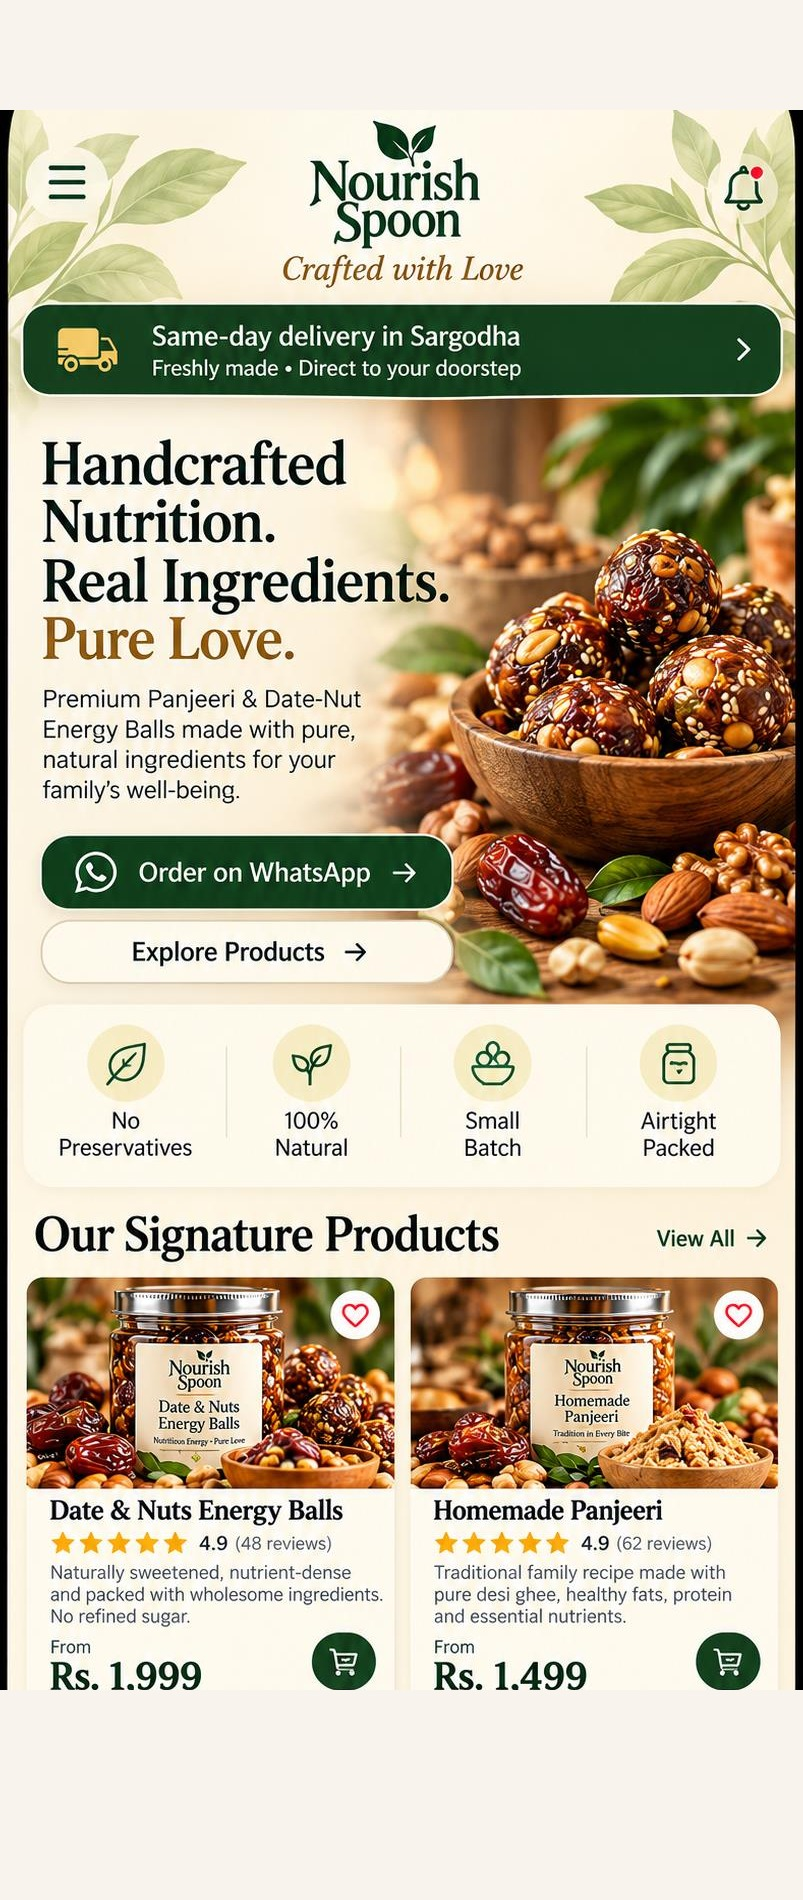
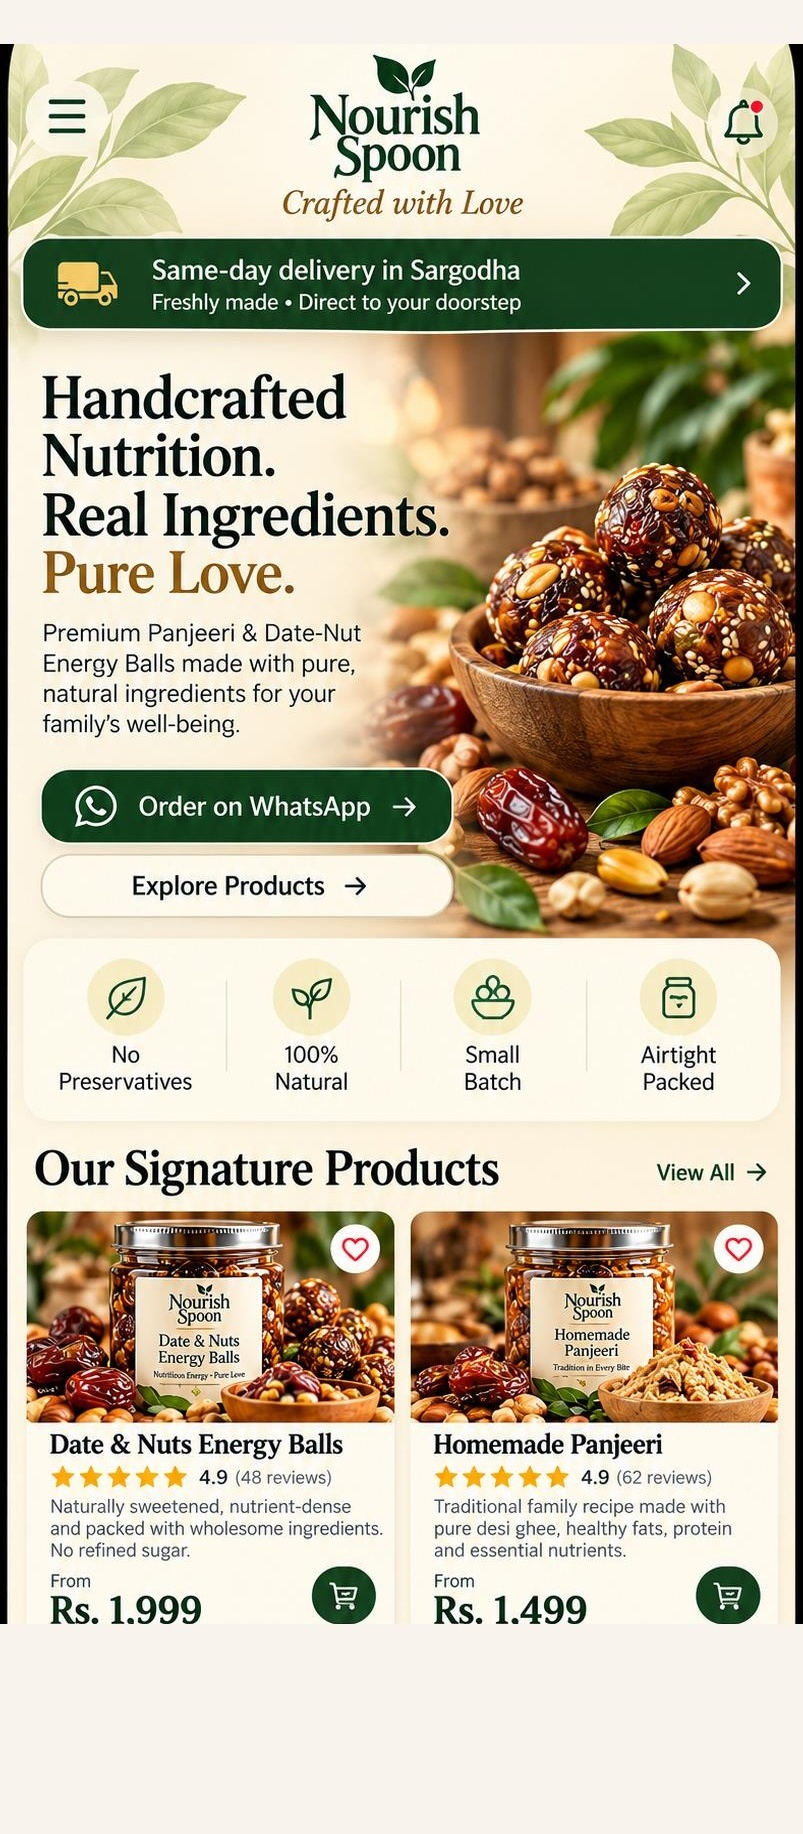
fix: auth input alignment and home artwork status bar
- Login: transparent input patches (were beige blocks), centered text
- Signup: text positioned at placeholder level (was overlapping)
- Home: cropped fake iPhone status bar from artwork

diff --git a/src/features/auth/screens/LoginScreen.tsx b/src/features/auth/screens/LoginScreen.tsx
@@ -203,7 +203,7 @@ const styles = StyleSheet.create({
   },
   inputPatch: {
     position: 'absolute',
-    backgroundColor: '#FBF5E6',
+    backgroundColor: 'transparent',
     justifyContent: 'center',
   },
   emailPatch: {
@@ -224,6 +224,7 @@ const styles = StyleSheet.create({
     fontSize: 14.5,
     paddingVertical: 0,
     paddingHorizontal: 0,
+    textAlignVertical: 'center',
   },
   forgotZone: {
     position: 'absolute',

diff --git a/src/features/auth/screens/SignUpScreen.tsx b/src/features/auth/screens/SignUpScreen.tsx
@@ -219,8 +219,10 @@ const styles = StyleSheet.create({
     backgroundColor: 'transparent',
     color: colors.text,
     fontSize: 14.5,
-    paddingVertical: 0,
+    paddingTop: 45,
+    paddingBottom: 0,
     paddingHorizontal: 0,
+    textAlignVertical: 'top',
   },
   fullNameInput: {
     top: '39.4%',
